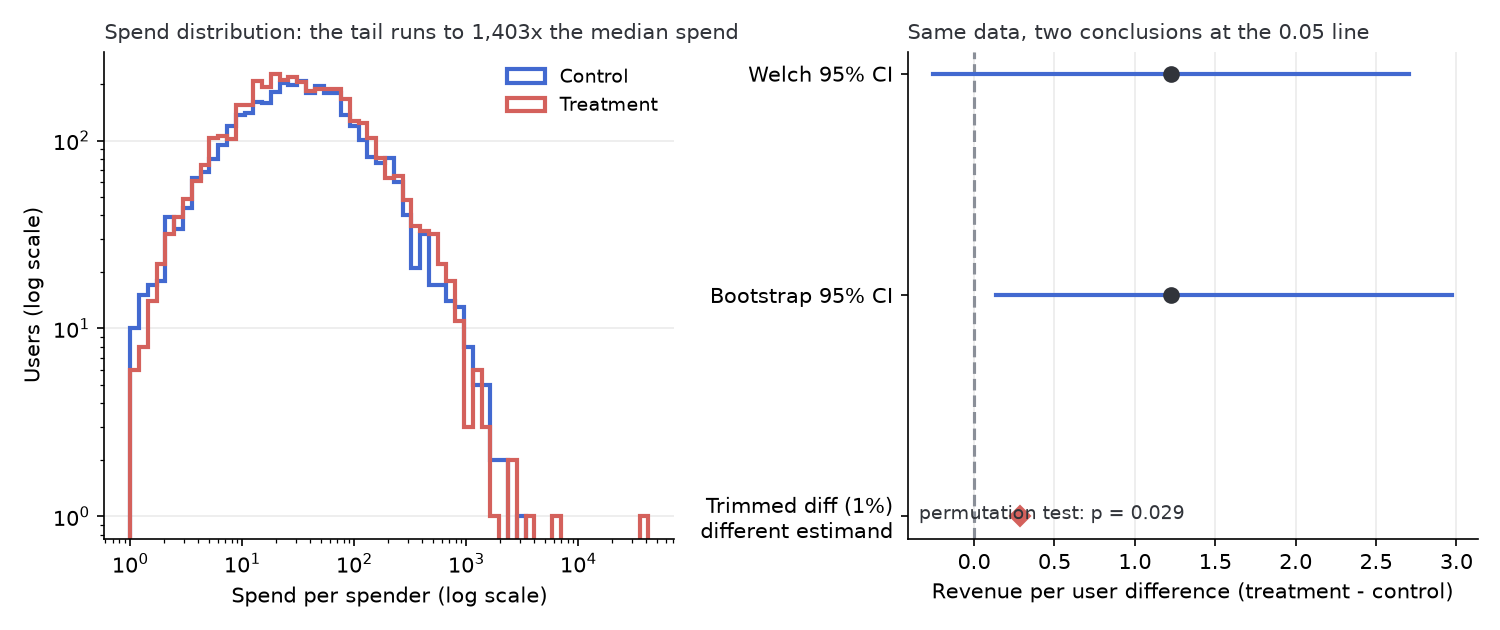
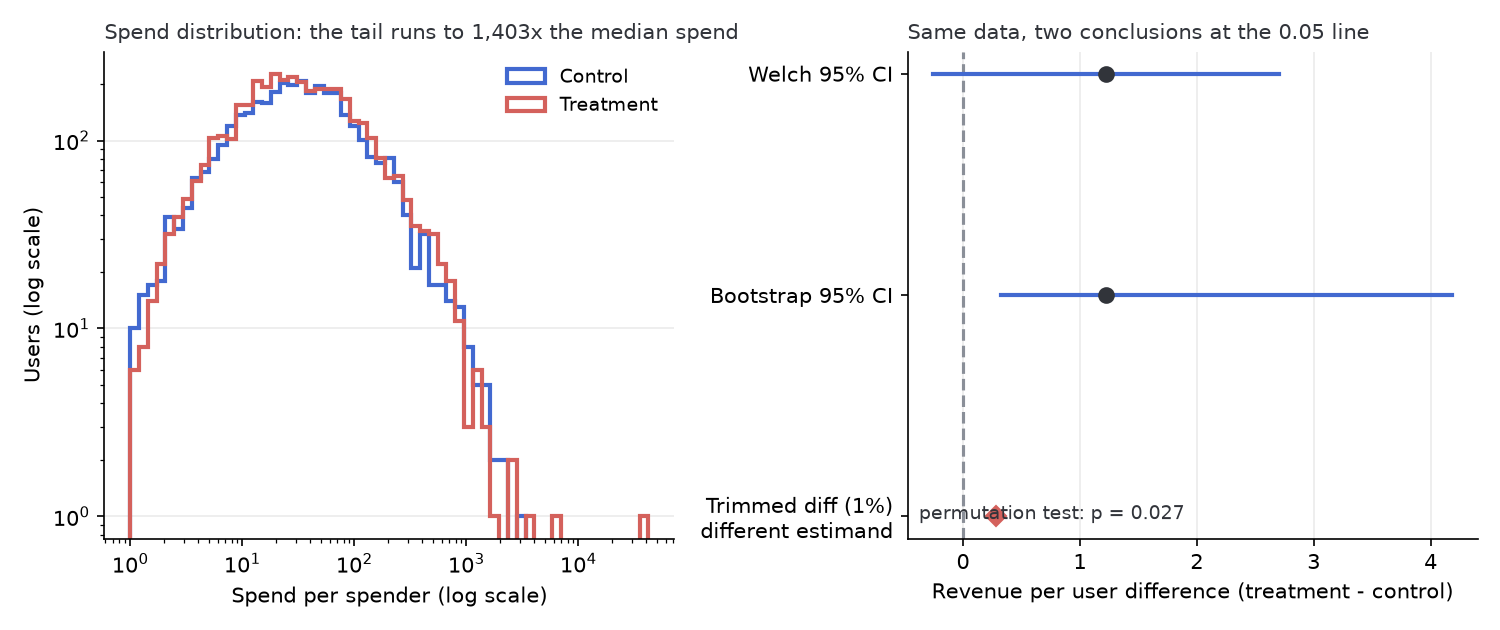
Bootstrap and permutation test call scipy; retire the permutation benchmark
bootstrap_mean_diff wraps scipy.stats.bootstrap with the BCa method,
vectorized in batches of 256; permutation_test_mean_diff wraps
scipy.stats.permutation_test (independent relabelings, two-sided).
Signatures and validation unchanged; trimmed_mean_diff unchanged.
scripts/run_bench_permutation.py is removed with the hand-built
permutation loop it timed.

Two numbers change by design, ruled 2026-10-06 and 2026-10-07. BCa
replaces the percentile interval, and scipy's two-sided permutation
p-value is twice the smaller one-sided value (each counting the observed
difference), so its floor is 2 / (n + 1) where the add-one rule's was
1 / (n + 1). fmt_perm_p's floor check moves to match, and the report
table label reads "BCa bootstrap".

Report moves (regenerated here; ASOS byte-identical, it has no
resampling):
  checkout spend: bootstrap 95% CI +0.14 to +2.97 -> +0.32 to +4.18;
    permutation p 0.029 -> 0.027
  Hillstrom spend: bootstrap 95% CI +0.482 to +1.059 -> +0.493 to +1.069;
    permutation p 1.0e-04 (floor) -> 0.0002 (floor)

Measured on the Hillstrom spend contrast (21,306 and 21,307 users,
10,000 resamples): bootstrap 7.1 s and 142 MB peak, permutation 7.3 s
and 350 MB peak, inside the plan's 60 s and 2 GB limits, so no
percentile fallback.

Coverage, measured over 1,000 simulations at three seeds on lognormal
arms at n = 400: BCa 92.6 to 93.7%, percentile 93.9 to 94.7%. BCa does
not improve coverage on this tail; the coverage test keeps its 90 to 98%
[…]

diff --git a/src/abkit/resampling.py b/src/abkit/resampling.py
@@ -4,11 +4,11 @@ These are the workhorses for heavy-tailed metrics (revenue per user)
 where the normal-theory tests in ``frequentist`` rely on a CLT that has
 not kicked in at realistic sample sizes.
 
-Both routines vectorize over resamples in fixed-size chunks, so peak
-memory is set by the chunk size and stays flat as the resample count
-grows. A chunk holds a few arrays of ``_CHUNK * n`` elements at once
-(random keys, the index array, and the gathered values), so budget a
-small multiple of ``_CHUNK * n * 8`` bytes rather than exactly that.
+Both routines call scipy and process resamples in fixed-size batches, so
+peak memory is set by the batch size and stays flat as the resample count
+grows. A batch holds a few arrays of ``_BATCH * n`` elements at once, so
+budget a small multiple of ``_BATCH * n * 8`` bytes rather than exactly
+that.
 """
 
 from __future__ import annotations
@@ -19,7 +19,7 @@ from scipy import stats
 
 from abkit.results import BootstrapResult, PermutationResult
 
-_CHUNK = 256
+_BATCH = 256
 
 
 def _two_samples(
@@ -39,11 +39,18 @@ def _two_samples(
             f"and {treatment_values.size}"
         )
     # NaN fails every comparison, which in the permutation test means no
-    # resample ever counts as extreme: it would return p = 1/(n+1), its most
-    # significant possible value, on unusable data. Refuse instead.
+    # resample ever counts as extreme: it would return the most significant
+    # possible p-value on unusable data. Refuse instead.
     if not np.all(np.isfinite(control_values)) or not np.all(np.isfinite(treatment_values)):
         raise ValueError("outcomes must all be finite; found NaN or infinity")
     return control_values, treatment_values
+
+
+def _mean_difference(
+    control_values: NDArray[np.float64], treatment_values: NDArray[np.float64], axis: int = -1
+) -> NDArray[np.float64]:
+    """Treatment mean minus control mean along an axis, in the form scipy's resamplers call."""
+    return np.mean(treatment_values, axis=axis) - np.mean(control_values, axis=axis)
 
 
 def bootstrap_mean_diff(
@@ -54,12 +61,13 @@ def bootstrap_mean_diff(
     n_resamples: int = 10_000,
     confidence: float = 0.95,
 ) -> BootstrapResult:
-    """Percentile bootstrap interval for the difference in means.
+    """Bootstrap interval for the difference in means, scipy's BCa method.
 
-    Arms are resampled independently with replacement. The percentile
-    interval is adequate here because the bootstrap distribution of a
-    mean difference is close to symmetric at experiment-scale n; a BCa
-    interval would tighten small-sample skew cases.
+    Arms are resampled independently with replacement. The
+    bias-corrected and accelerated (BCa) interval adjusts the percentile
+    interval for the skew of the bootstrap distribution, which matters
+    for heavy-tailed metrics at modest n; the coverage test pins it on
+    lognormal arms.
     """
     control_values, treatment_values = _two_samples(control, treatment)
     if n_resamples < 100:
@@ -67,27 +75,20 @@ def bootstrap_mean_diff(
     if not 0.0 < confidence < 1.0:
         raise ValueError(f"confidence must be in (0, 1), got {confidence}")
 
-    differences = np.empty(n_resamples)
-    done = 0
-    while done < n_resamples:
-        size = min(_CHUNK, n_resamples - done)
-        control_resample_indices = random_generator.integers(
-            0, control_values.size, size=(size, control_values.size)
-        )
-        treatment_resample_indices = random_generator.integers(
-            0, treatment_values.size, size=(size, treatment_values.size)
-        )
-        differences[done : done + size] = treatment_values[treatment_resample_indices].mean(
-            axis=1
-        ) - control_values[control_resample_indices].mean(axis=1)
-        done += size
-
-    tail = (1.0 - confidence) / 2.0
-    low, high = np.quantile(differences, [tail, 1.0 - tail])
+    result = stats.bootstrap(
+        (control_values, treatment_values),
+        _mean_difference,
+        n_resamples=n_resamples,
+        batch=_BATCH,
+        vectorized=True,
+        confidence_level=confidence,
+        method="BCa",
+        rng=random_generator,
+    )
     return BootstrapResult(
         estimate=float(treatment_values.mean() - control_values.mean()),
-        ci_low=float(low),
-        ci_high=float(high),
+        ci_low=float(result.confidence_interval.low),
+        ci_high=float(result.confidence_interval.high),
         confidence=confidence,
         n_resamples=n_resamples,
     )
@@ -100,50 +101,34 @@ def permutation_test_mean_diff(
     random_generator: np.random.Generator,
     n_permutations: int = 10_000,
 ) -> PermutationResult:
-    """Two-sided permutation test for a difference in means.
+    """Two-sided permutation test for a difference in means, through scipy.
 
     Exact conditional on the pooled outcomes: no distributional
     assumptions, so it stays valid for heavy-tailed and zero-inflated
     metrics. Also correct for binary outcomes, where the mean difference
-    is the rate difference. Uses the add-one p-value
-    ``(1 + hits) / (n_permutations + 1)``, which is conservative and
-    never exactly zero.
+    is the rate difference. scipy counts the observed difference among
+    the relabelings, so each one-sided p-value is at least
+    ``1 / (n_permutations + 1)``, and the two-sided p-value is twice the
+    smaller one-sided value, capped at 1: its floor is
+    ``2 / (n_permutations + 1)``.
     """
     control_values, treatment_values = _two_samples(control, treatment)
     if n_permutations < 100:
         raise ValueError(f"n_permutations must be at least 100, got {n_permutations}")
 
-    pooled = np.concatenate([control_values, treatment_values])
-    n_treatment = treatment_values.size
-    n_control = control_values.size
-    total = pooled.sum()
-    observed = treatment_values.mean() - control_values.mean()
-
-    hits = 0
-    done = 0
-    while done < n_permutations:
-        size = min(_CHUNK, n_permutations - done)
-        # argpartition on random keys draws a uniform n_t-subset per row in
-        # O(n), against O(n log n) to argsort the same keys. A per-row
-        # Fisher-Yates shuffle is also O(n), but has to materialize and
-        # permute the whole block, and measures about 2.5x slower here
-        # (timed by scripts/run_bench_permutation.py, run of 2026-08-07).
-        # float32 keys halve the memory; they collide for roughly 0.4% of
-        # keys at n = 100k, and ties break by position rather than at random,
-        # which biases the draw far below the Monte Carlo error of the
-        # p-value itself.
-        keys = random_generator.random((size, pooled.size), dtype=np.float32)
-        take = np.argpartition(keys, n_treatment - 1, axis=1)[:, :n_treatment]
-        treatment_sums = pooled[take].sum(axis=1)
-        permutation_differences = (
-            treatment_sums / n_treatment - (total - treatment_sums) / n_control
-        )
-        hits += int(np.sum(np.abs(permutation_differences) >= abs(observed)))
-        done += size
-
+    result = stats.permutation_test(
+        (control_values, treatment_values),
+        _mean_difference,
+        permutation_type="independent",
+        vectorized=True,
+        n_resamples=n_permutations,
+        batch=_BATCH,
+        alternative="two-sided",
+        rng=random_generator,
+    )
     return PermutationResult(
-        observed=float(observed),
-        p_value=(1 + hits) / (n_permutations + 1),
+        observed=float(treatment_values.mean() - control_values.mean()),
+        p_value=float(result.pvalue),
         n_permutations=n_permutations,
     )
 

diff --git a/src/abkit/report_sections.py b/src/abkit/report_sections.py
@@ -88,12 +88,14 @@ def fmt_p(p_value: float) -> str:
 def fmt_perm_p(permutation: PermutationResult) -> str:
     """Permutation p-value as report text, flagged when it sits at the estimator's floor.
 
-    The add-one estimator's smallest possible value is 1 / (n_permutations + 1),
-    reached when no relabeling is as extreme as the observed difference. That
-    value is still a valid, conservative p-value, but printed bare it reads as
-    a measurement rather than as the resolution limit of the relabeling count.
+    scipy's two-sided p-value is twice the smaller one-sided value, each of
+    which counts the observed difference among the relabelings, so the
+    smallest possible value is 2 / (n_permutations + 1), reached when no
+    relabeling is as extreme as the observed difference. That value is still
+    a valid, conservative p-value, but printed bare it reads as a measurement
+    rather than as the resolution limit of the relabeling count.
     """
-    if permutation.p_value <= 1.0 / (permutation.n_permutations + 1):
+    if permutation.p_value <= 2.0 / (permutation.n_permutations + 1):
         return (
             f"p = {fmt_p(permutation.p_value)}, the smallest value "
             f"{permutation.n_permutations:,} relabelings can give"
@@ -1038,7 +1040,7 @@ def sec_heavy_tail(
         )
         + f". The first contrast ({_contrast_label(experiment, treatment_arm)}) is "
         "analyzed four ways, each stressing the tail differently: a Welch t-test (relies "
-        "on the normal approximation of the mean), a percentile bootstrap "
+        "on the normal approximation of the mean), a BCa bootstrap "
         "(resamples the observed tail), a permutation test (no normal "
         "approximation, with a p-value computed from 10,000 random "
         "relabelings under the null that the arms' distributions are "
@@ -1050,7 +1052,7 @@ def sec_heavy_tail(
         f"| Method | Estimate | Interval / p |\n|---|---|---|\n"
         f"| Welch t-test | {welch.difference:+.3f} | 95% CI {welch.ci_low:+.3f} "
         f"to {welch.ci_high:+.3f}, p = {fmt_p(welch.p_value)} |\n"
-        f"| Percentile bootstrap | {bootstrap.estimate:+.3f} | 95% CI {bootstrap.ci_low:+.3f} "
+        f"| BCa bootstrap | {bootstrap.estimate:+.3f} | 95% CI {bootstrap.ci_low:+.3f} "
         f"to {bootstrap.ci_high:+.3f} |\n"
         f"| Permutation test | {permutation.observed:+.3f} | {fmt_perm_p(permutation)} |\n"
         f"| Trimmed mean diff (1%) | {trimmed:+.3f} | different estimand |\n\n"

diff --git a/tests/test_resampling.py b/tests/test_resampling.py
@@ -34,7 +34,7 @@ def test_bootstrap_ci_coverage_on_skewed_data():
     random_generator = np.random.default_rng(32)
     true_diff = np.exp(0.5) * (np.exp(0.2) - 1.0)  # lognormal mean difference
     covered = 0
-    n_sims = 300
+    n_sims = 800
     for _ in range(n_sims):
         control_values = random_generator.lognormal(0.0, 1.0, 400)
         treatment_values = random_generator.lognormal(0.2, 1.0, 400)
@@ -42,7 +42,10 @@ def test_bootstrap_ci_coverage_on_skewed_data():
             control_values, treatment_values, random_generator=random_generator, n_resamples=1000
         )
         covered += bootstrap.ci_low <= true_diff <= bootstrap.ci_high
-    # percentile intervals undercover slightly on skewed data; accept 90-98
+    # measured 2026-10-07 over 1,000 simulations at three seeds: BCa covers
+    # 92.6 to 93.7% here and percentile 93.9 to 94.7%, so the interval still
+    # undercovers a little on this tail at n = 400. 800 simulations put the
+    # 90% floor more than three Monte Carlo standard errors below that.
     assert 0.90 <= covered / n_sims <= 0.98
 
 
@@ -94,7 +97,7 @@ def test_permutation_detects_large_effect():
     p_value = permutation_test_mean_diff(
         control_values, treatment_values, random_generator=random_generator, n_permutations=999
     ).p_value
-    assert p_value == pytest.approx(1 / 1000)  # add-one p-value floor
+    assert p_value == pytest.approx(2 / 1000)  # scipy's two-sided floor, 2 / (n + 1)
 
 
 def test_permutation_works_on_binary_outcomes():

diff --git a/scripts/run_build_checkout_report.py b/scripts/run_build_checkout_report.py
@@ -829,14 +829,14 @@ disagreement.
 | Method | Estimate | Interval / p |
 |---|---|---|
 | Welch t-test | {welch.difference:+.2f} per user | 95% CI {welch.ci_low:+.2f} to {welch.ci_high:+.2f}, p = {fmt_p(welch.p_value)} |
-| Percentile bootstrap | {bootstrap.estimate:+.2f} per user | 95% CI {bootstrap.ci_low:+.2f} to {bootstrap.ci_high:+.2f} |
+| BCa bootstrap | {bootstrap.estimate:+.2f} per user | 95% CI {bootstrap.ci_low:+.2f} to {bootstrap.ci_high:+.2f} |
 | Permutation test | {permutation.observed:+.2f} per user | p = {fmt_p(permutation.p_value)} |
 | Trimmed mean diff (1%) | {trimmed:+.2f} per user | different estimand, see below |
 
 The first three estimate the same quantity and disagree about it. One caveat
 applies before the bootstrap is used as a tiebreaker. Its coverage
 evidence in this repo is finite-variance only, and under an infinite-variance
-tail the percentile interval for a mean is itself unstable, which is part of
+tail the bootstrap interval for a mean is itself unstable, which is part of
 the point. The Welch
 test says not significant (p = {fmt_p(welch.p_value)}). The permutation test says
 significant (p = {fmt_p(permutation.p_value)}). The bootstrap interval

diff --git a/tests/test_report_sections.py b/tests/test_report_sections.py
@@ -246,10 +246,10 @@ class TestCommittedHillstromReport:
 
 def test_permutation_p_at_its_floor_is_stated_as_a_bound():
     """A p-value at the add-one floor names the floor, anything above prints as a plain value."""
-    floor = PermutationResult(observed=0.5, p_value=1 / 10_001, n_permutations=10_000)
-    assert fmt_perm_p(floor) == "p = 1.0e-04, the smallest value 10,000 relabelings can give"
-    above = PermutationResult(observed=0.5, p_value=2 / 10_001, n_permutations=10_000)
-    assert fmt_perm_p(above) == "p = 0.0002"
+    floor = PermutationResult(observed=0.5, p_value=2 / 10_001, n_permutations=10_000)
+    assert fmt_perm_p(floor) == "p = 0.0002, the smallest value 10,000 relabelings can give"
+    above = PermutationResult(observed=0.5, p_value=3 / 10_001, n_permutations=10_000)
+    assert fmt_perm_p(above) == "p = 0.0003"
 
 
 class TestOmittedSections:

diff --git a/src/abkit/results.py b/src/abkit/results.py
@@ -59,7 +59,7 @@ class SrmResult:
 
 @dataclass(frozen=True)
 class BootstrapResult:
-    """Point estimate with a bootstrap confidence interval."""
+    """Point estimate with a bootstrap confidence interval (scipy's BCa method)."""
 
     estimate: float
     ci_low: float

diff --git a/analysis/hillstrom/report.md b/analysis/hillstrom/report.md
@@ -66,13 +66,13 @@ Unadjusted, 4 comparisons clear alpha. After Holm, 4 survive. Figure 1 shows eac
 
 ## 6. Heavy-tailed metric: spend
 
-**spend** is the kind of metric where a few extreme users can dominate the average (99% of users in the first contrast sit at zero). The first contrast (Mens E-Mail vs No E-Mail) is analyzed four ways, each stressing the tail differently: a Welch t-test (relies on the normal approximation of the mean), a percentile bootstrap (resamples the observed tail), a permutation test (no normal approximation, with a p-value computed from 10,000 random relabelings under the null that the arms' distributions are identical), and a trimmed-mean difference. The trimmed-mean difference is a diagnostic for how much the estimate depends on the tail. It deliberately estimates a different quantity (a different estimand), so its number is not comparable to the other three.
+**spend** is the kind of metric where a few extreme users can dominate the average (99% of users in the first contrast sit at zero). The first contrast (Mens E-Mail vs No E-Mail) is analyzed four ways, each stressing the tail differently: a Welch t-test (relies on the normal approximation of the mean), a BCa bootstrap (resamples the observed tail), a permutation test (no normal approximation, with a p-value computed from 10,000 random relabelings under the null that the arms' distributions are identical), and a trimmed-mean difference. The trimmed-mean difference is a diagnostic for how much the estimate depends on the tail. It deliberately estimates a different quantity (a different estimand), so its number is not comparable to the other three.
 
 | Method | Estimate | Interval / p |
 |---|---|---|
 | Welch t-test | +0.770 | 95% CI +0.485 to +1.055, p = 1.2e-07 |
-| Percentile bootstrap | +0.770 | 95% CI +0.482 to +1.059 |
-| Permutation test | +0.770 | p = 1.0e-04, the smallest value 10,000 relabelings can give |
+| BCa bootstrap | +0.770 | 95% CI +0.493 to +1.069 |
+| Permutation test | +0.770 | p = 0.0002, the smallest value 10,000 relabelings can give |
 | Trimmed mean diff (1%) | +0.078 | different estimand |
 
 Figure 2 shows the distributions and the interval comparison. The three same-estimand methods agree here, which is what a well-behaved tail looks like. The trimmed row is not a tail check on this data. With 99% of users at zero, cutting 1% from each end of each arm removes most or all of the users with a nonzero value along with the extreme ones, so the trimmed difference sits near zero whatever the true effect.

diff --git a/analysis/checkout/report.md b/analysis/checkout/report.md
@@ -180,18 +180,18 @@ disagreement.
 | Method | Estimate | Interval / p |
 |---|---|---|
 | Welch t-test | +1.23 per user | 95% CI -0.25 to +2.71, p = 0.104 |
-| Percentile bootstrap | +1.23 per user | 95% CI +0.14 to +2.97 |
-| Permutation test | +1.23 per user | p = 0.029 |
+| BCa bootstrap | +1.23 per user | 95% CI +0.32 to +4.18 |
+| Permutation test | +1.23 per user | p = 0.027 |
 | Trimmed mean diff (1%) | +0.29 per user | different estimand, see below |
 
 The first three estimate the same quantity and disagree about it. One caveat
 applies before the bootstrap is used as a tiebreaker. Its coverage
 evidence in this repo is finite-variance only, and under an infinite-variance
-tail the percentile interval for a mean is itself unstable, which is part of
+tail the bootstrap interval for a mean is itself unstable, which is part of
 the point. The Welch
 test says not significant (p = 0.104). The permutation test says
-significant (p = 0.029). The bootstrap interval
-(+0.14 to +2.97) excludes zero, but its lower bound barely
+significant (p = 0.027). The bootstrap interval
+(+0.32 to +4.18) excludes zero, but its lower bound barely
 clears it.
 
 The Welch/permutation split has a specific cause. The permutation test is
